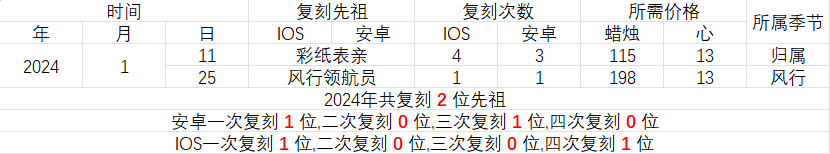
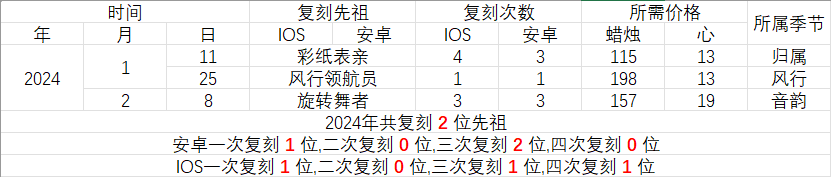
* 2024/02/11

Changed region(s): [[0.0, 0.0, 1.0, 1.0], [0.0301, 0.3896, 0.0904, 0.4935], [0.1205, 0.3896, 0.1807, 0.4156]]

diff --git a/apps/「光遇」统计及其他.js b/apps/「光遇」统计及其他.js
@@ -16,17 +16,22 @@ export class STATISTICS_AND_OTHERS extends plugin {
   async STATISTICS_AND_OTHERS(e) {
     const PIC_PATH = 'plugins/Tlon-Sky/resource/Picture/Statistics and others/'
     if (/(#|\/)?身高图/.test(e.msg)) {
-      return e.reply([segment.at(e.user_id), '\n发送[身高透明图]查看透明格式', segment.image(`${PIC_PATH}身高图.png`)]);
+      return SEND(e, true, `${PIC_PATH}身高图.png`)
     } else if (/(#|\/)?透明身高图/.test(e.msg) || /(#|\/)?身高透明图/.test(e.msg)) {
-      return e.reply([segment.at(e.user_id), segment.image(`${PIC_PATH}透明身高图.png`)]);
+      return SEND(e, false, `${PIC_PATH}透明身高图.png`)
     } else if (/(#|\/)?身高进阶知识/.test(e.msg)) {
-      return e.reply([segment.at(e.user_id), segment.image(`${PIC_PATH}身高进阶知识.png`)]);
+      return SEND(e, false, `${PIC_PATH}身高进阶知识.png`)
     } else if (/(#|\/)?蜡烛合成机制/.test(e.msg)) {
-      return e.reply([segment.at(e.user_id), segment.image(`${PIC_PATH}蜡烛合成机制.png`)]);
+      return SEND(e, false, `${PIC_PATH}蜡烛合成机制.png`)
     } else if (/(#|\/)?测量规则/.test(e.msg)) {
-      return e.reply([segment.at(e.user_id), segment.image(`${PIC_PATH}测量规则.png`)]);
+      return SEND(e, false, `${PIC_PATH}测量规则.png`)
     } else if (/(#|\/)?好友树兑换图/.test(e.msg)) {
-      return e.reply([segment.at(e.user_id), segment.image(`plugins/Tlon-Sky/resource/Picture/Exchange picture/好友树兑换图.png`)]);
+      return SEND(e, false, `plugins/Tlon-Sky/resource/Picture/Exchange picture/好友树兑换图.png`)
     }
   }
+}
+
+async function SEND(e, STATE, PICTRUE) {
+  let TEXT = ''; if (STATE) { TEXT = '\n发送[身高透明图]查看透明格式' }
+  return e.reply([segment.at(e.user_id), TEXT, segment.image(PICTRUE)])
 }

diff --git a/apps/「光遇」先祖多久未复刻查询.js b/apps/「光遇」先祖多久未复刻查询.js
@@ -62,7 +62,7 @@ const seasons = {
     { name: '献情演员', date: new Date('2022-08-16') },
     { name: '抛球杂耍', date: new Date('2023-06-26') },
     { name: '沉思编导', date: new Date('2022-09-27') },
-    { name: '旋转舞者', date: new Date('2022-10-10') }
+    { name: '旋转舞者', date: new Date('2024-02-12') }
   ],
   '魔法': [
     { name: '稻草人农夫', date: new Date('2022-08-29') },
